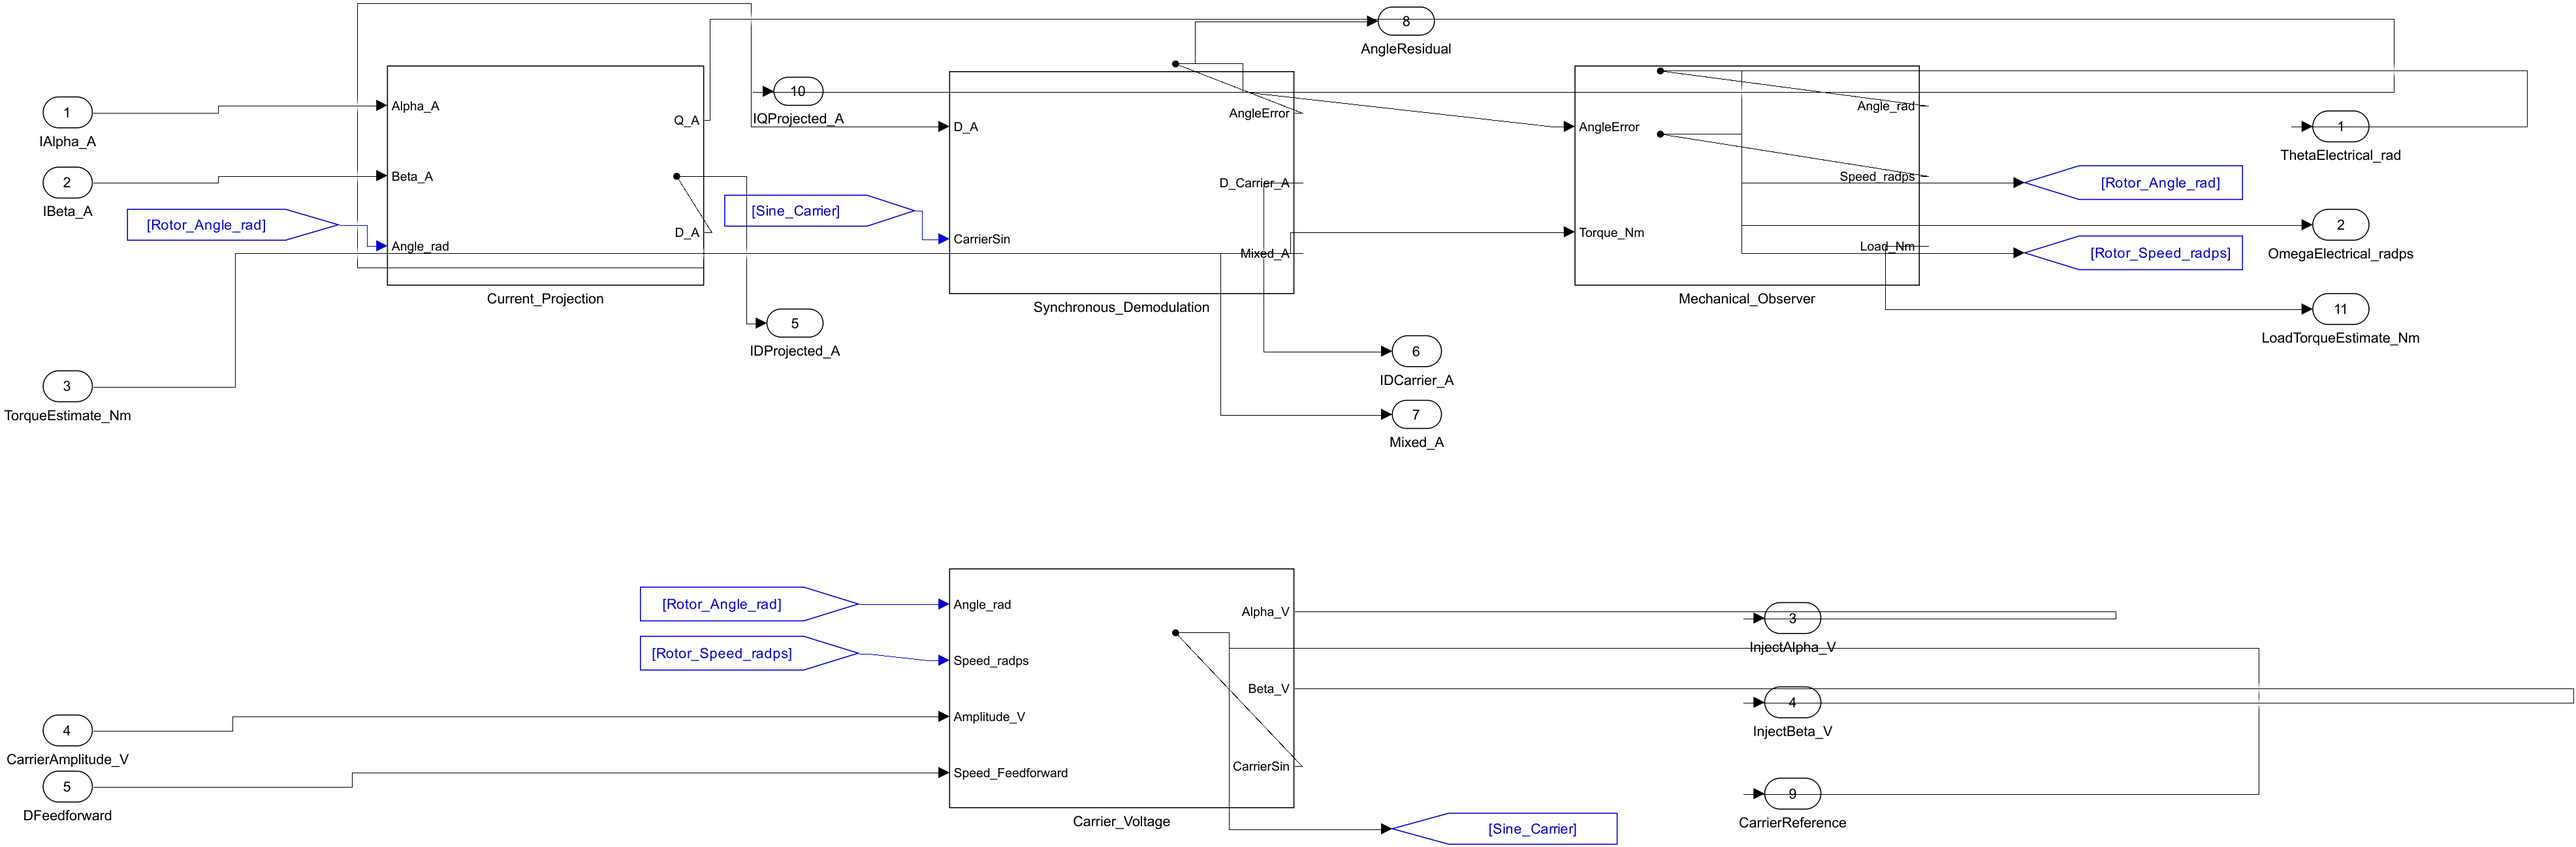
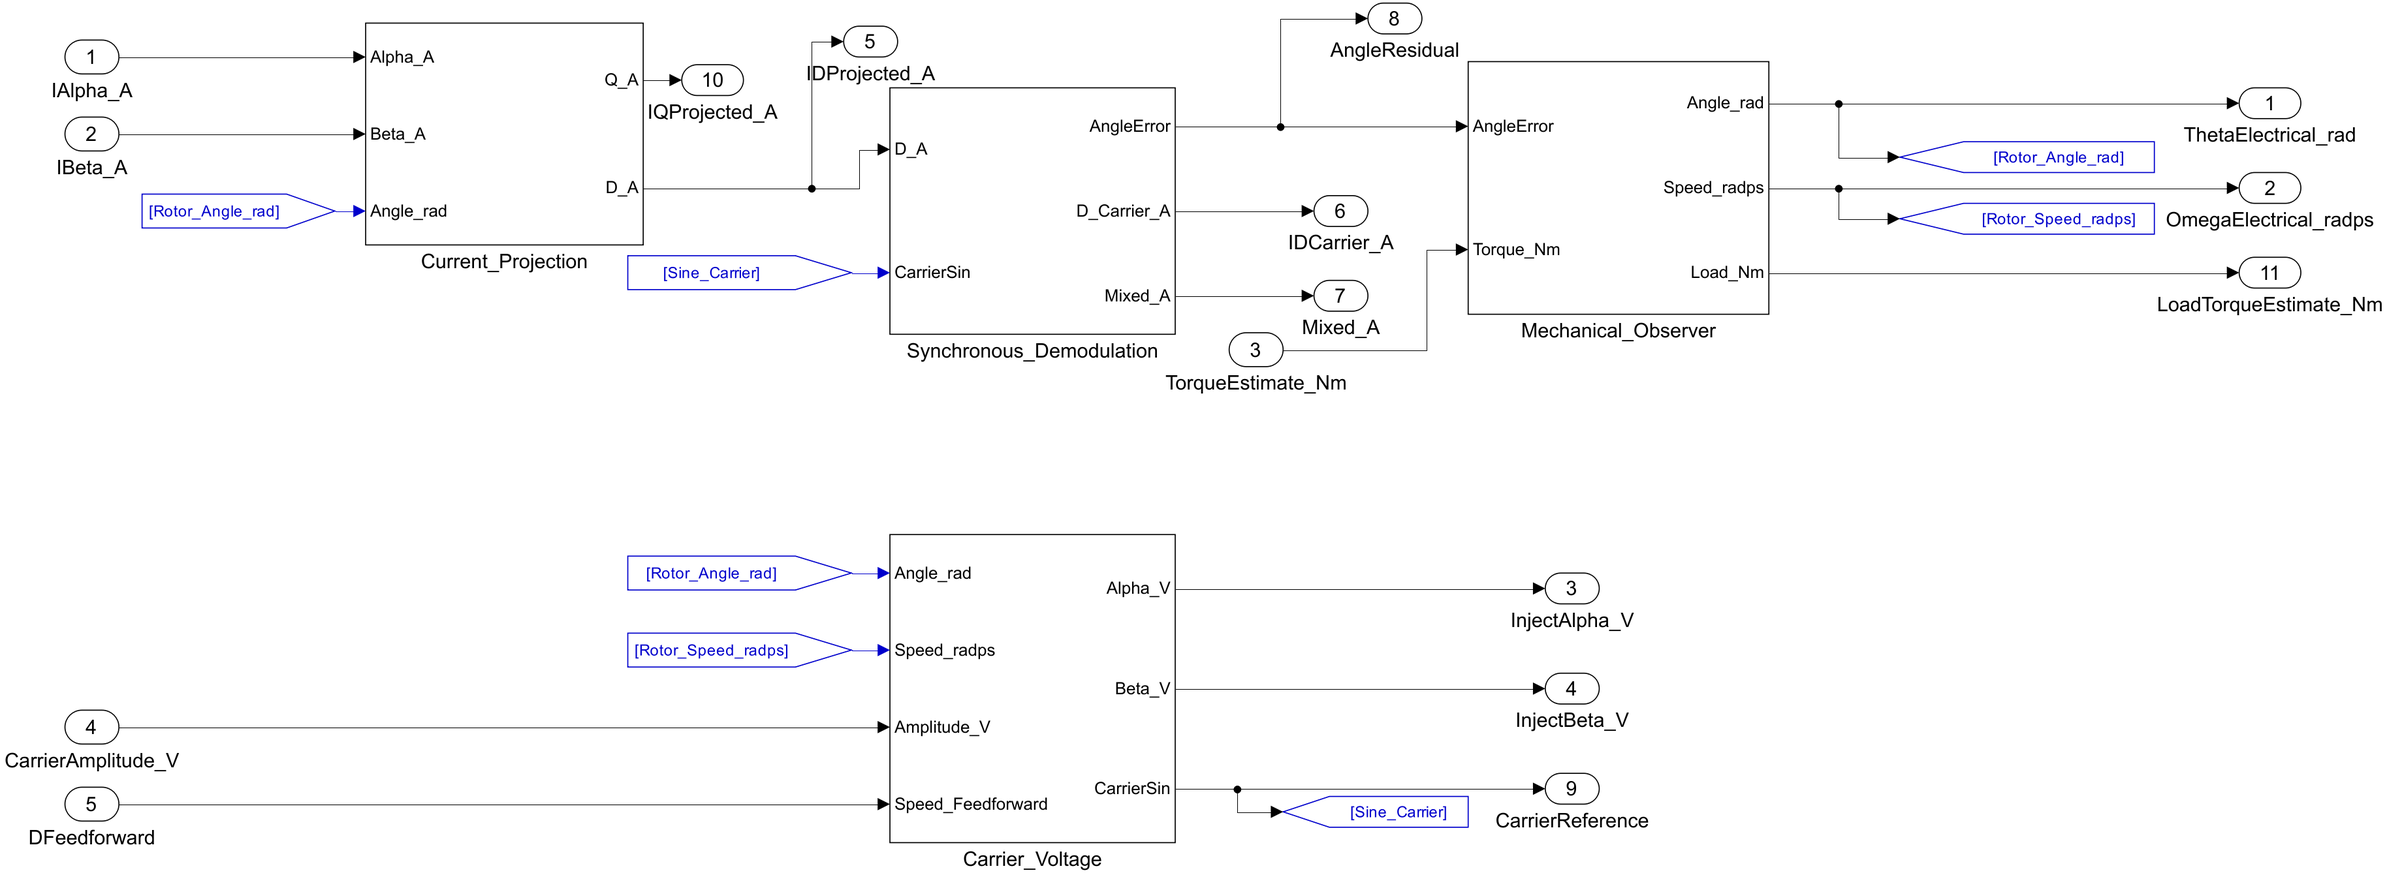
Straighten Corley observer signal routes

diff --git a/README.md b/README.md
@@ -10,7 +10,7 @@
 |---|---|---|---|
 | 02 | IPMSM 弱磁扩速 · Morimoto 1990 | 电流圆与电压椭圆、MTPA/弱磁对比、开关级整机、可移植离散控制器、ERT C 回放 | [工程介绍](examples/02-morimoto-1990-field-weakening/) · [完整 ZIP](https://github.com/YANG985-CMD/motor-control-simulink-examples/releases/download/morimoto-1990-v1.0.0/morimoto1990-ipmsm-field-weakening-readable-v1.0.0.zip) |
 | 03 | 逆变器死区补偿 · Choi & Sul 1996 | 三相桥与续流、PMSM 过零波形、死区误差标定、频谱与独立 ERT C 回放 | [工程介绍](examples/03-choi-sul-1996-dead-time/) · [完整 ZIP](https://github.com/YANG985-CMD/motor-control-simulink-examples/releases/download/choi-sul-1996-v1.0.0/choi-sul-1996-pmsm-dead-time-compensation-v1.0.0.zip) |
-| 04 | 凸极 IPMSM 高频注入 · Corley & Lorenz 1998 | q 轴注入、d 轴解调、0–5000 rpm 对照、极性歧义、ERT C 与闭环 SIL | [工程介绍](examples/04-corley-lorenz-1998-high-frequency-injection/) · [完整 ZIP](https://github.com/YANG985-CMD/motor-control-simulink-examples/releases/download/corley-lorenz-1998-v1.0.0/corley-lorenz-1998-ipmsm-hfi-v1.0.0.zip) |
+| 04 | 凸极 IPMSM 高频注入 · Corley & Lorenz 1998 | q 轴注入、d 轴解调、0–5000 rpm 对照、极性歧义、ERT C 与闭环 SIL | [工程介绍](examples/04-corley-lorenz-1998-high-frequency-injection/) · [完整 ZIP](https://github.com/YANG985-CMD/motor-control-simulink-examples/releases/download/corley-lorenz-1998-v1.0.1/corley-lorenz-1998-ipmsm-hfi-v1.0.1.zip) |
 | 专题 | PMSM 无位置传感器观测器 · SMO 与 Luenberger | 同一电机的 12 组对照、独立闭环启动、单精度观测器、ERT C 回放 | [工程介绍](examples/smo-luenberger-pmsm-observers/) · [模型 ZIP](https://github.com/YANG985-CMD/motor-control-simulink-examples/releases/download/smo-luenberger-v1.0.0/pmsm-smo-luenberger-readable-models-v1.0.0.zip) · [原始 MAT](https://github.com/YANG985-CMD/motor-control-simulink-examples/releases/download/smo-luenberger-v1.0.0/observer-comparison-original-traces.mat) |
 
 编号与电机经典论文视频系列对应。

diff --git a/examples/04-corley-lorenz-1998-high-frequency-injection/README.md b/examples/04-corley-lorenz-1998-high-frequency-injection/README.md
@@ -2,7 +2,7 @@
 
 在同一台 48 V 凸极 IPMSM 上，沿估计 q 轴注入 2 kHz 电压，从估计 d 轴电流解调位置残差。工程有 0 rpm 开关对照、噪声、60 rpm、5000 rpm、高速前馈开关对照和 180° 极性共七组工况。
 
-[下载完整工程 ZIP](https://github.com/YANG985-CMD/motor-control-simulink-examples/releases/download/corley-lorenz-1998-v1.0.0/corley-lorenz-1998-ipmsm-hfi-v1.0.0.zip)，包含 Simulink 模型、数据字典、原始轨迹、生成的 ERT C 和两种回放验证入口。
+[下载完整工程 ZIP](https://github.com/YANG985-CMD/motor-control-simulink-examples/releases/download/corley-lorenz-1998-v1.0.1/corley-lorenz-1998-ipmsm-hfi-v1.0.1.zip)，包含 Simulink 模型、数据字典、原始轨迹、生成的 ERT C 和两种回放验证入口。
 
 ## 真实模型图
 
@@ -76,3 +76,9 @@ python verify_c.py --gcc gcc
 - [七组对照指标](verification/metrics.json)
 - [相同启动采样的 C 回放](verification/host_replay.json) · [闭环软件在环](verification/sil_replay.json)
 - [布局检查](verification/layout_audit.json) · [文件校验值](package-manifest.json)
+
+## v1.0.1 观测器总图
+
+新版按主链与载波支路分排，重新绘制根层 25 条连接。几何核查覆盖独立走线交叉、穿过块内部和折返。七组原始轨迹逐点一致，重新生成的 C 与前一版本的代码符号一致，编译后通过 11,207 点启动回放。
+
+[走线核查](verification/wire_route_audit.json) · [七组轨迹逐点核对](verification/layout_trace_parity.json)
